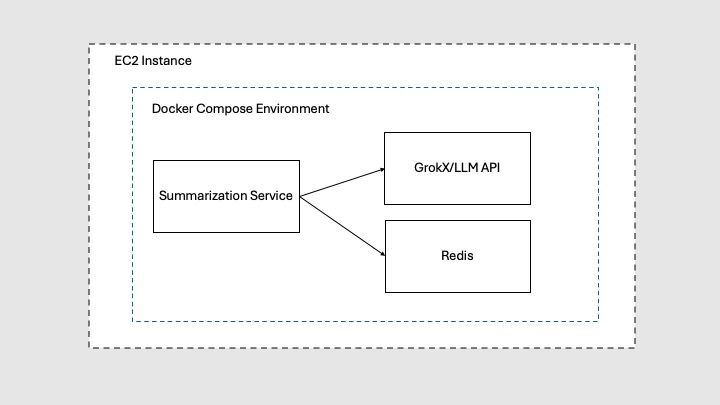
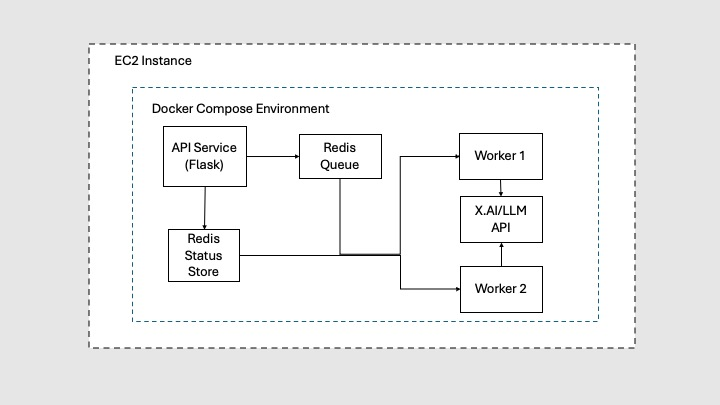
updated README

diff --git a/README.md b/README.md
@@ -13,14 +13,19 @@ A containerized service for summarizing text using large language models. This s
 ## Architecture
 
 This service uses a container-based architecture:
-![Slide1](https://github.com/user-attachments/assets/8263deb4-c9c0-4a88-83c2-02b4e7653522)
+![alt text](Slide1.jpeg)
 
 1. **Application Container** (Flask):
    - Handles API requests
    - Processes text using LLM APIs
    - Manages document state
 
-2. **Redis Container**:
+2. **Worker Containers (Multiple instances)**:
+   - Process documents from the queue
+   - Call the X.AI API for summarization
+   - Update document status and store results
+
+3. **Redis Container**:
    - Tracks processing status
    - Provides fast status lookups
    - Persists data between restarts
